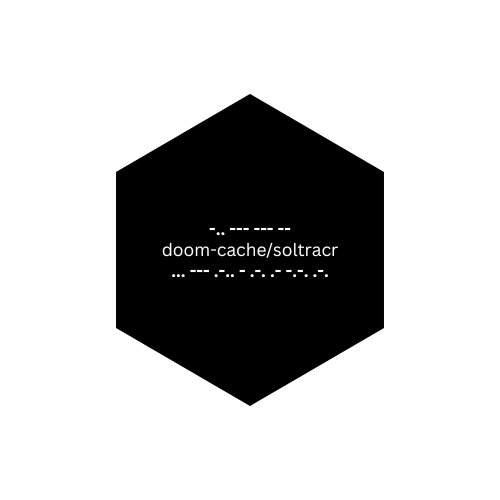
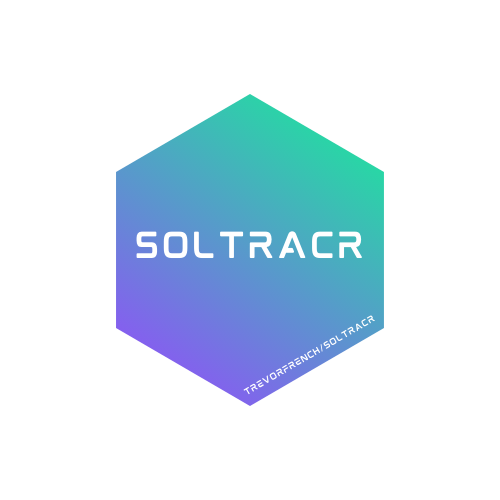
init commit

Changed region(s): [[0.21, 0.18, 0.78, 0.81]]

diff --git a/README.md b/README.md
@@ -1,3 +1,3 @@
 # soltracr
 
-<a href='https://github.com/doom-cache/soltracr'><img src="https://raw.githubusercontent.com/doom-cache/soltracr/main/man/figures/soltracr (1).png" align="right" height="300"/></a>
+<a href='https://github.com/TrevorFrench/soltracr'><img src="https://raw.githubusercontent.com/TrevorFrench/soltracr/main/man/figures/soltracr.png" align="right" height="300"/></a>
